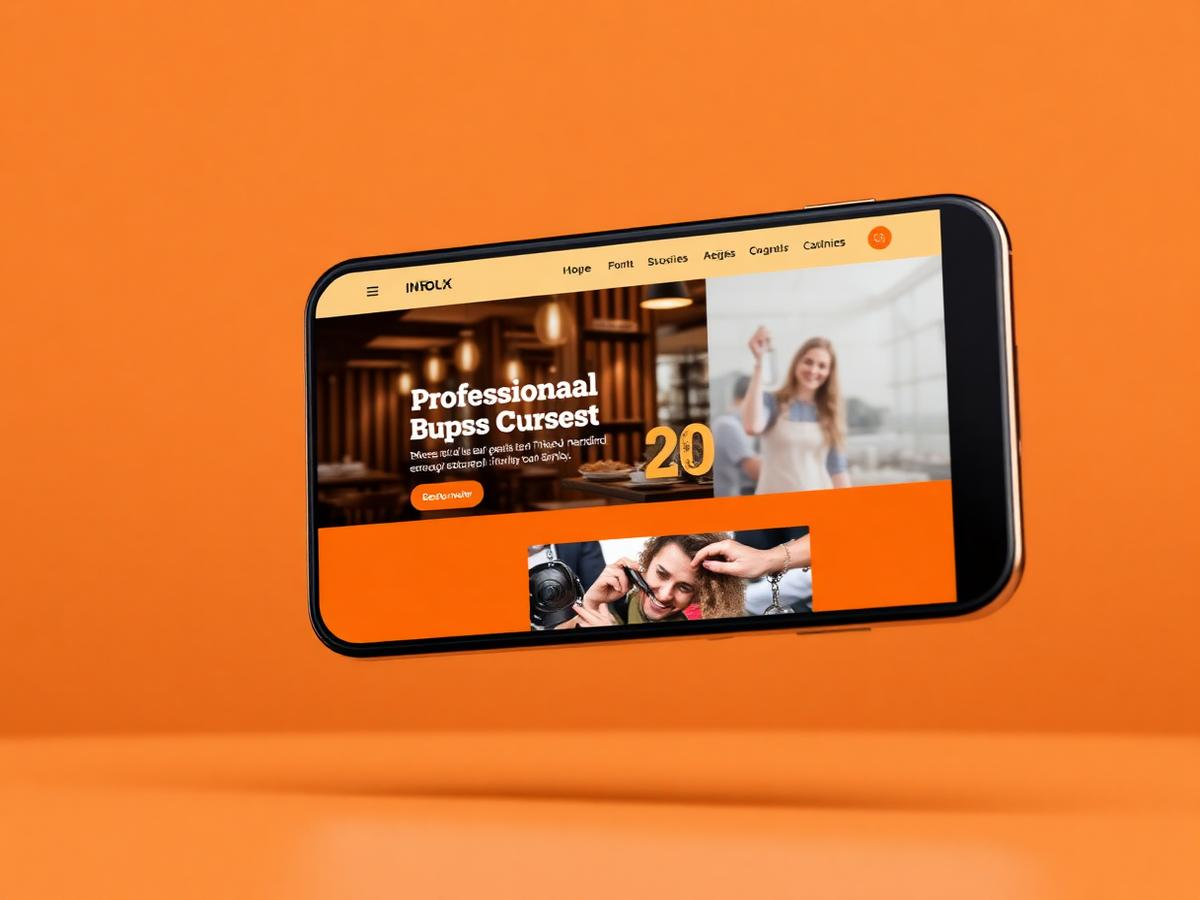
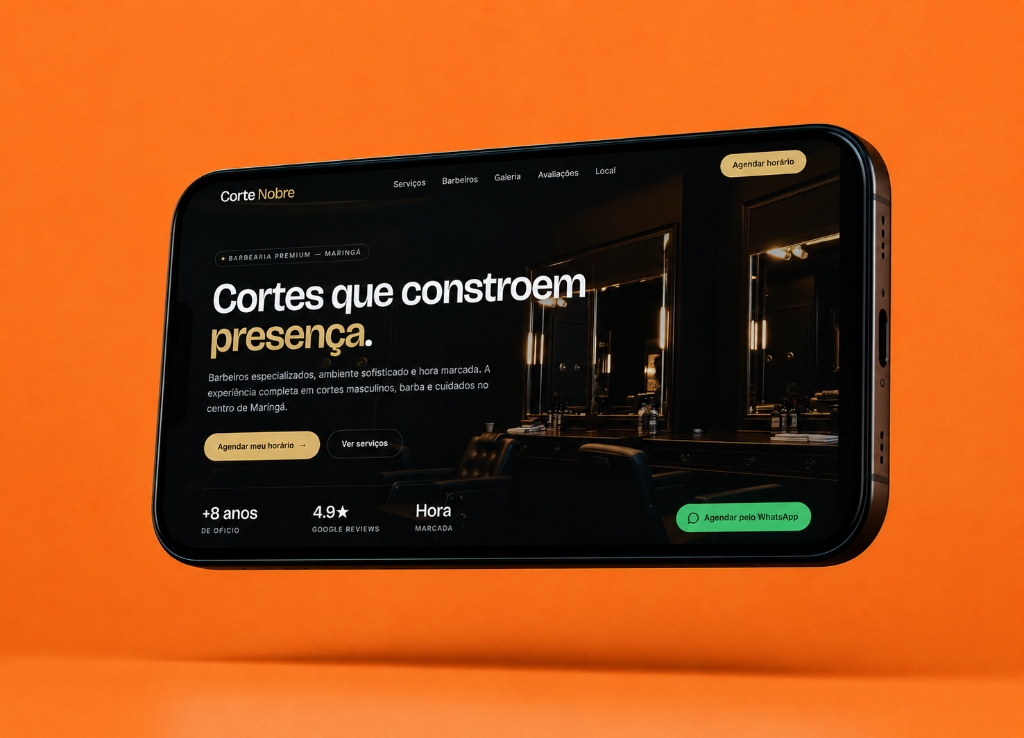
.

diff --git a/src/routes/index.tsx b/src/routes/index.tsx
@@ -436,23 +436,25 @@ function Portfolio() {
       img: portfolio1,
       title: "Oliveira e Vasconcelos Advocacia",
       tag: "Direito Trabalhista Especializado",
-      link: "https://www.behance.net/gallery/252787913/Oliveira-Vasconcelos-Advocacia",
+      link: "https://www.behance.net/gallery/252787913",
       embedUrl: "https://www.behance.net/embed/project/252787913?ilo0=1",
       w: 1450,
       h: 1085,
     },
     {
       img: portfolio2,
-      title: "Gastronomia & Experiência Premium",
-      tag: "Landing Page de Alta Conversão",
-      w: 1200,
-      h: 900,
+      title: "Corte Nobre Barbearia",
+      tag: "Barbearia & Agendamento Premium",
+      link: "https://www.behance.net/gallery/252792663",
+      embedUrl: "https://www.behance.net/embed/project/252792663?ilo0=1",
+      w: 1450,
+      h: 1085,
     },
     {
       img: portfolio3,
       title: "Silva & Associados",
       tag: "Orientação Jurídica Especializada",
-      link: "https://www.behance.net/gallery/252790431/Silva-Associados",
+      link: "https://www.behance.net/gallery/252790431",
       embedUrl: "https://www.behance.net/embed/project/252790431?ilo0=1",
       w: 1450,
       h: 1085,